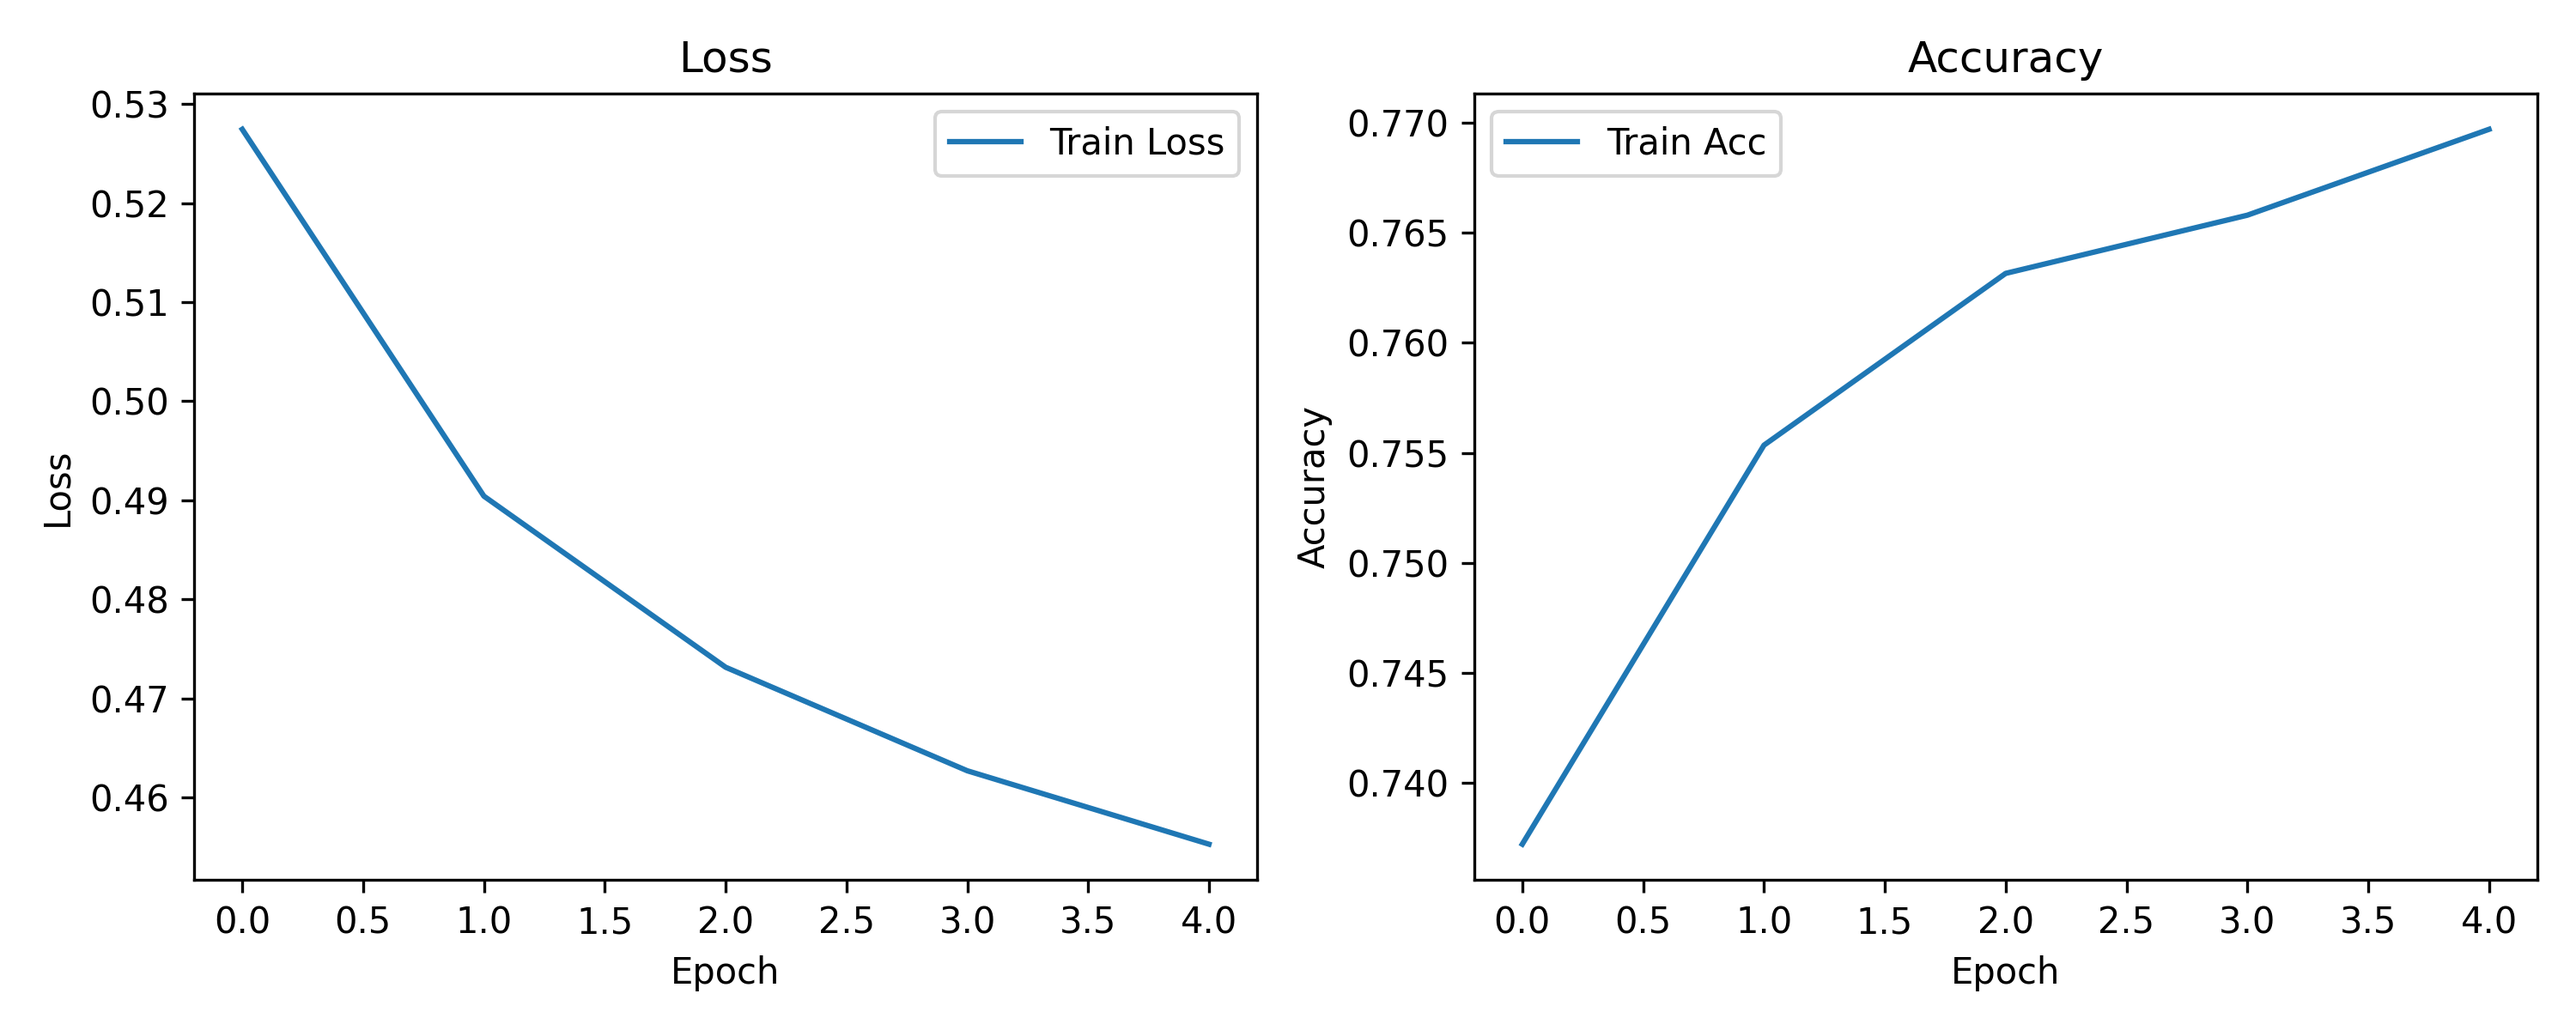
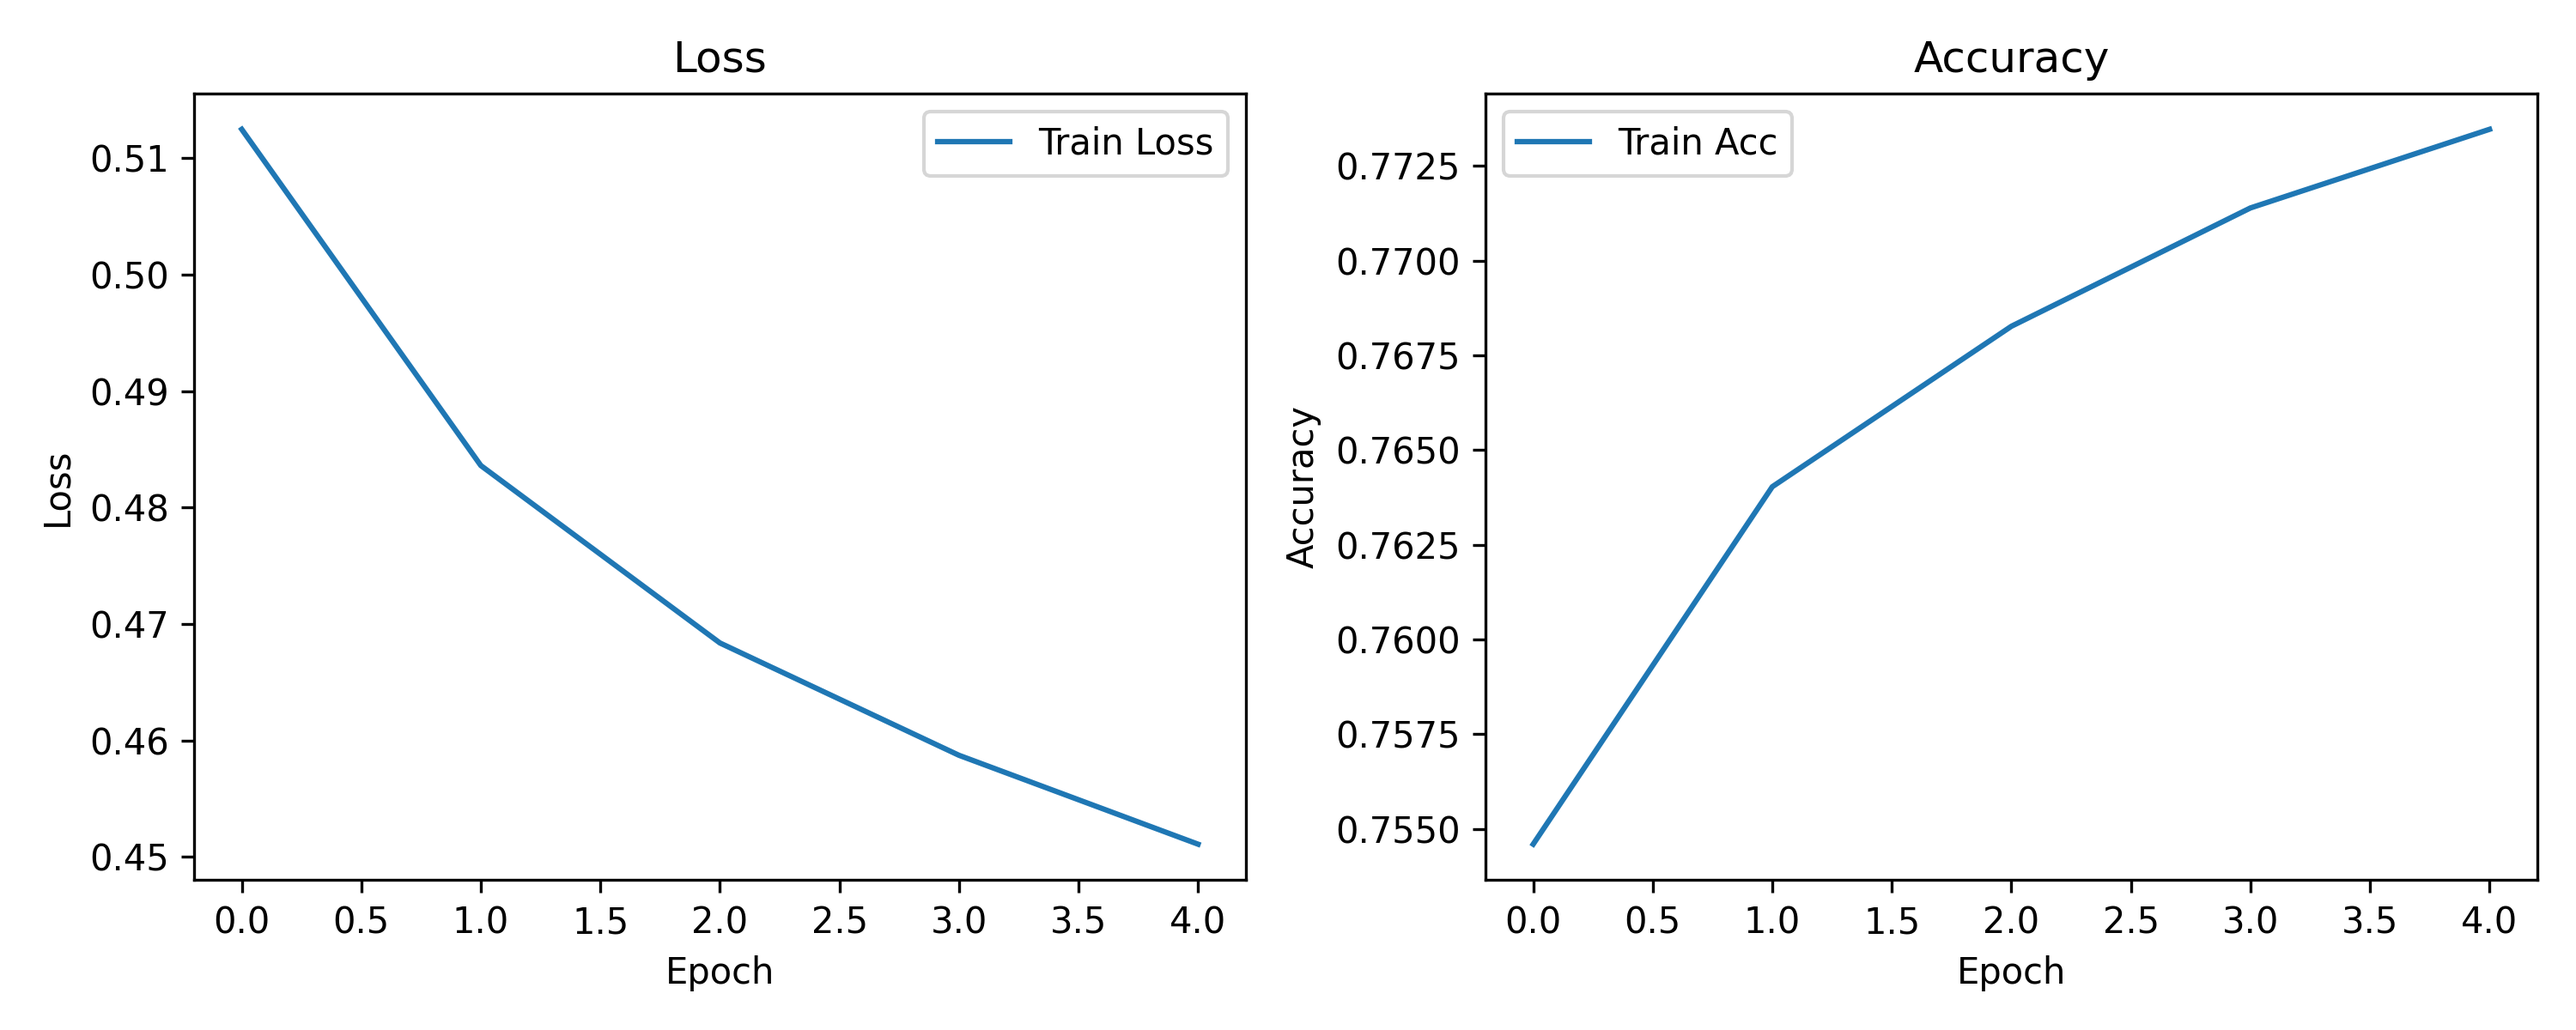
fikset imports i plot config

diff --git a/fl_backend/plotting/plotting_config.py b/fl_backend/plotting/plotting_config.py
@@ -1,6 +1,6 @@
 from plotting.plot_methods.confusion_matrix_plot import confusion_matrix_plot
-from plot_methods.precision_recall_plot import precision_recall_plot
-from plot_methods.loss_accuracy_plot import loss_over_time_plot
+from plotting.plot_methods.precision_recall_plot import precision_recall_plot
+from plotting.plot_methods.loss_accuracy_plot import loss_over_time_plot
 
 def plot_diagrams(targets, preds, train_losses, train_accuracies):
     #Udvid denne når den nye config struktur er blevet implementeret så det hele passer

diff --git a/fl_backend/plotting/Plotting_README.md b/fl_backend/plotting/Plotting_README.md
@@ -66,3 +66,8 @@ Plotting-systemet er endnu ikke fuldt udviklet, men tanken er :
 
 ```python
 plot_methods/
+
+- Genererede diagrammer vil dermed gemmes i mappen:
+
+```python
+saved_plots/
